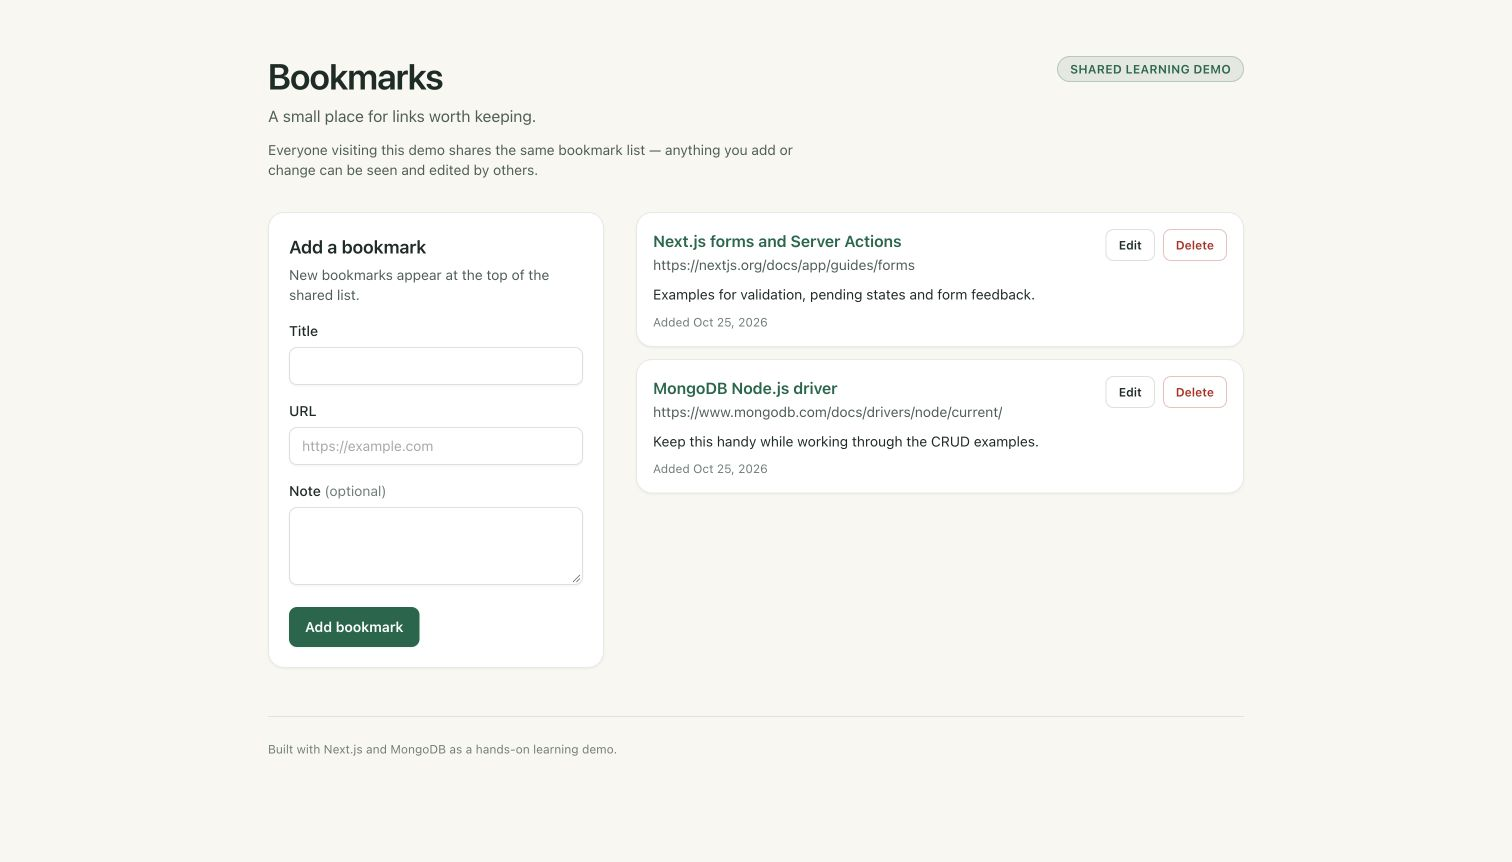
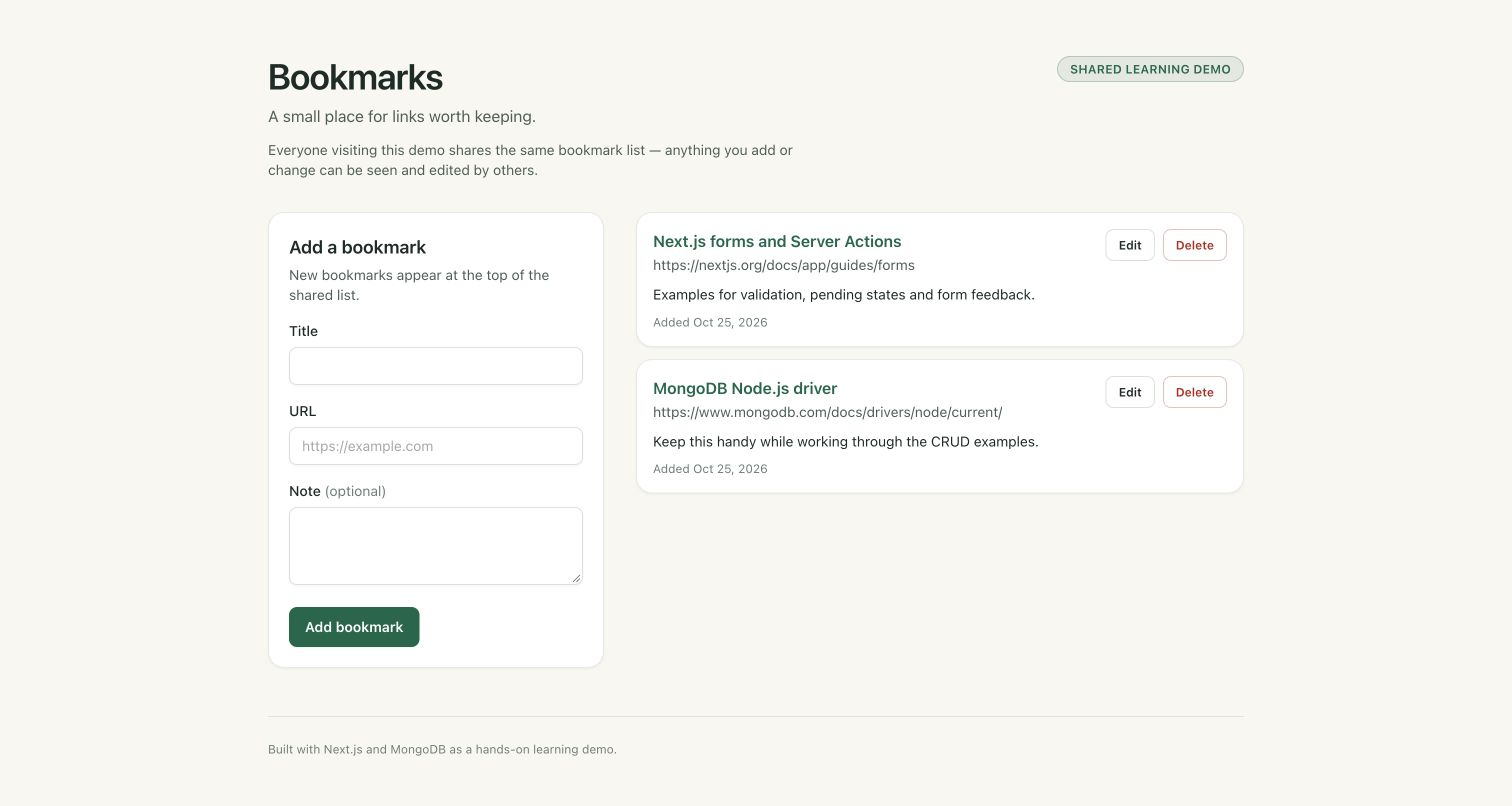
Link the working tutorial draft and final preview

diff --git a/README.md b/README.md
@@ -4,6 +4,8 @@ A learning app for saving, listing, editing and deleting bookmarks with Next.js 
 
 This is a **shared learning demo**. There are no application accounts or per-user records: everyone with access can see and change the same list. Use sample links, never private information. Restrict any hosted deployment before enabling writes.
 
+See the [verification report](docs/verification.md) for the executed clean-checkout checks and their limits. The [working tutorial draft](https://docs.google.com/document/d/1PsKBmGwGZt-PWeIgUWjp9XN6XXzOrwbvrAjt3HiLTZc) was prepared after local verification; public source hosting and live cloud checks remain pending.
+
 ## Run locally
 
 Use Node.js **24.22.1**, recorded in `.nvmrc`. With nvm:

diff --git a/docs/tutorial-outline.md b/docs/tutorial-outline.md
@@ -1,6 +1,6 @@
 # Tutorial outline: build a shared bookmarks app with Next.js and MongoDB
 
-This is a working outline for a later tutorial draft. Implementation and verification come first; no Google Doc draft or final public code location is implied by this file.
+This outline guided the implementation and verification. The [working Google Doc draft](https://docs.google.com/document/d/1PsKBmGwGZt-PWeIgUWjp9XN6XXzOrwbvrAjt3HiLTZc) was created afterward. The final public code location remains pending.
 
 ## 1. Show the finished app and define its scope
 
